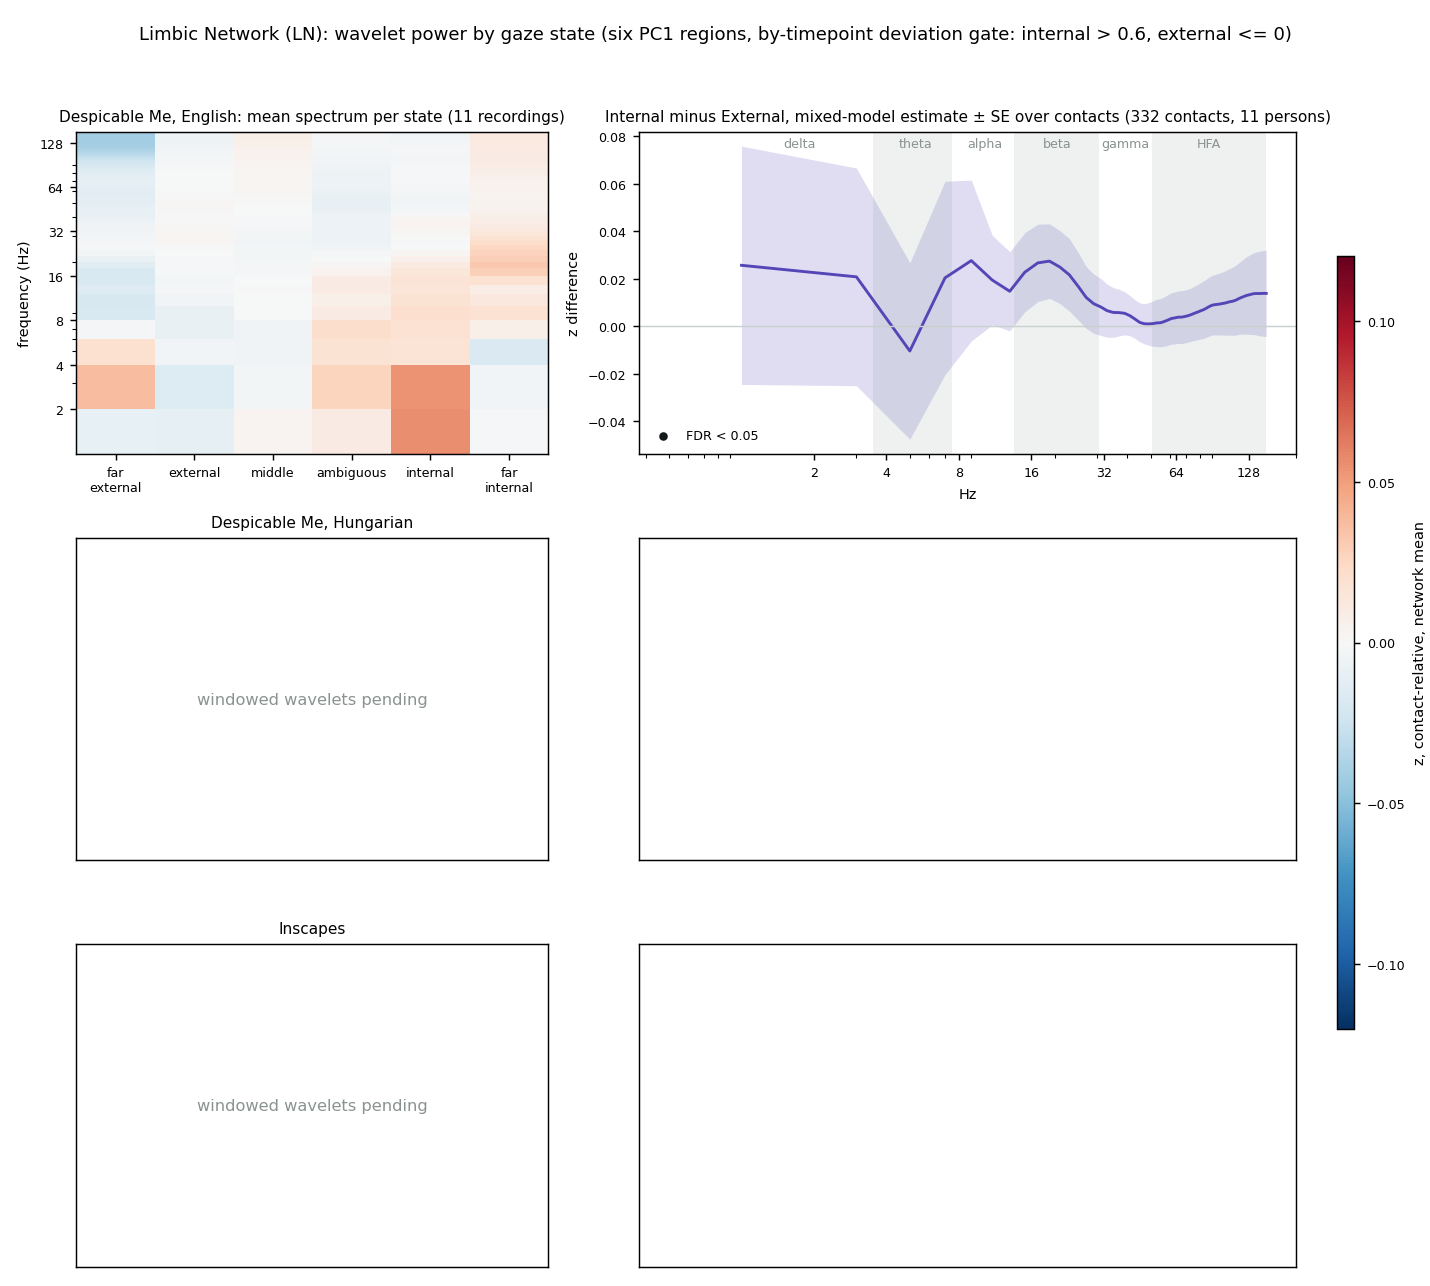
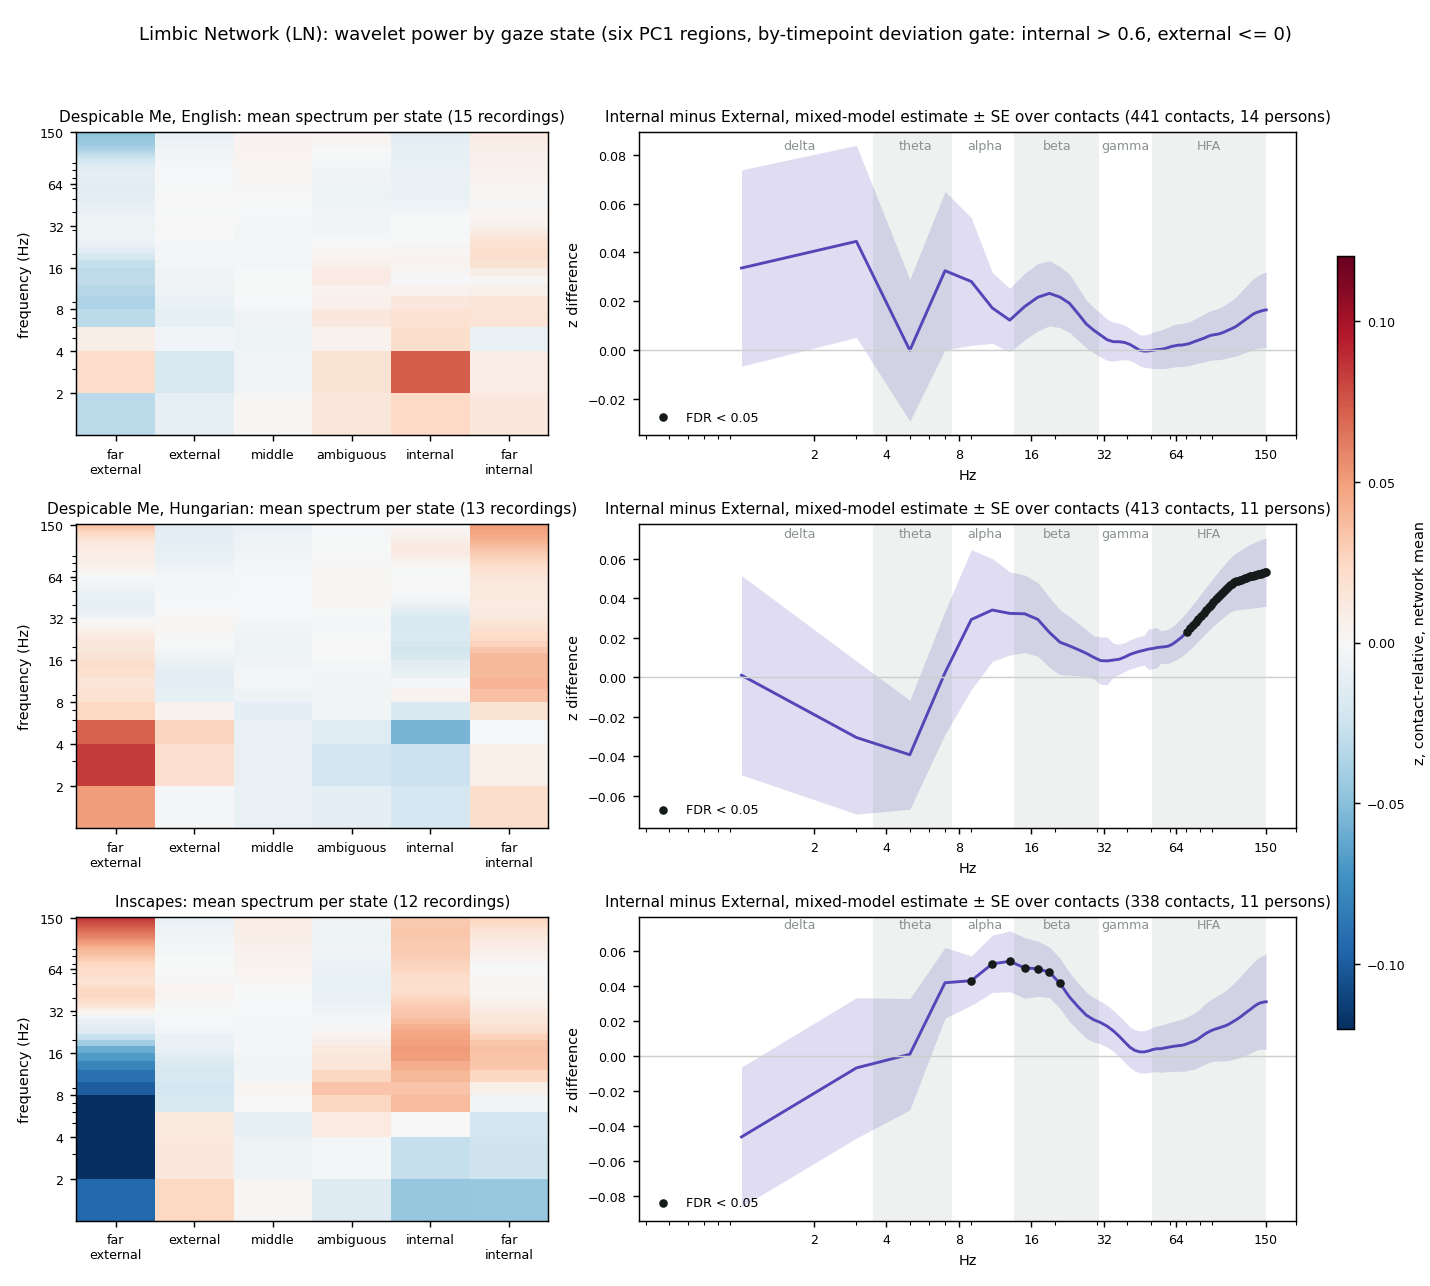
Spectra page: all three films on the 42-recording neural list, 150 Hz tick
Claude-Session: https://claude.ai/code/session_011o1cd7TCFfMfi4q8cm5qTc

diff --git a/reports/attn_explore_14Sep26_spectrograms.html b/reports/attn_explore_14Sep26_spectrograms.html
@@ -32,7 +32,7 @@ figcaption{font-family:var(--sans);font-size:13.5px;color:var(--ink-2);margin-to
   <h2 style="margin-top:0">State-averaged spectra and the Internal minus External contrast</h2>
   <p>Time is collapsed: for each network the left panel is a heatmap of the mean spectrum in each of the six gaze states, frequency on the y axis and state on the x axis from far external to far internal, and the right panel is the Internal minus External contrast at every frequency, where Internal pools the internal and far-internal regions and External pools the external and far-external regions. The summary figure below it shows the same contrast for all seven networks at once.</p>
   <p>States are the six PC1 regions, cut on within-viewer PC1 z at -1.5, -0.4, 0.4, 0.8 and 1.2, with the by-timepoint deviation gate at both ends: the two internal regions keep only windows whose deviation z across viewers at that scene is above 0.6, and the two external regions keep only windows at or below 0. Windows failing a gate are dropped. Each contact's spectrum is robust-z-scored against its own recording and centred on its own mean over all good windows, so the heatmap shows departure from the contact's average at each frequency, averaged over the network's contacts and then over recordings. The contrast is a mixed model per frequency on the per-contact Internal minus External difference with a person random intercept; dots mark frequencies significant after FDR over the 76 frequencies within network and film.</p>
-  <p class="note">A film is drawn only once at least five of its recordings have windowed wavelets. English has 12. Hungarian and Inscapes are being windowed and will appear when the job finishes. The colour range is ±0.12 z; values beyond it saturate.</p>
+  <p class="note">Recordings are the pipeline's neural inclusion list, the same 42 the power contrasts use: 16 English, 13 Hungarian, 13 Inscapes. The colour range is ±0.12 z; values beyond it saturate.</p>
 </div>
 <h2>All networks: Internal minus External by frequency</h2>
 <figure><img src="spectrograms/spectra_summary.png" alt="Internal minus External z by frequency for all networks"></figure>

diff --git a/analysis_scripts/attn_explore_14Sep26_spectra_states.py b/analysis_scripts/attn_explore_14Sep26_spectra_states.py
@@ -135,7 +135,7 @@ if __name__ == '__main__':
             ax = axes[i, 0]
             if (net, vid) in H:
                 fe = np.r_[freqs - 1, freqs[-1] + 1]; im = ax.pcolormesh(np.arange(len(REG) + 1), fe, H[(net, vid)].T, cmap='RdBu_r', norm=TwoSlopeNorm(vcenter=0, vmin=-VLIM, vmax=VLIM), shading='flat', rasterized=True)
-                ax.set_yscale('log'); ax.set_ylim(1, 152); ax.set_yticks([2, 4, 8, 16, 32, 64, 128]); ax.set_yticklabels(['2', '4', '8', '16', '32', '64', '128']); ax.set_xticks(np.arange(len(REG)) + 0.5); ax.set_xticklabels([r.replace(' ', '\n') for r in REG], fontsize=7.5)
+                ax.set_yscale('log'); ax.set_ylim(1, 152); ax.set_yticks([2, 4, 8, 16, 32, 64, 150]); ax.set_yticklabels(['2', '4', '8', '16', '32', '64', '150']); ax.set_xticks(np.arange(len(REG)) + 0.5); ax.set_xticklabels([r.replace(' ', '\n') for r in REG], fontsize=7.5)
                 ax.set_title(f'{VN[vid]}: mean spectrum per state ({len(net_state[(net, vid)])} recordings)', fontsize=8.5); ax.set_ylabel('frequency (Hz)', fontsize=8)
             else:
                 ax.text(0.5, 0.5, 'windowed wavelets pending', ha='center', va='center', fontsize=9, color='#8a9391', transform=ax.transAxes); ax.set_title(VN[vid], fontsize=8.5); ax.set_xticks([]); ax.set_yticks([])
@@ -144,7 +144,7 @@ if __name__ == '__main__':
             if len(rr):
                 ax.fill_between(rr.freq, rr.est - rr.se, rr.est + rr.se, color='#5546b8', alpha=0.18, lw=0); ax.plot(rr.freq, rr.est, color='#5546b8', lw=1.6)
                 sg = rr[rr.sig]; ax.scatter(sg.freq, sg.est, s=14, color='#151b1a', zorder=3, label='FDR < 0.05')
-                ax.axhline(0, color='#c9d0ce', lw=0.8); ax.set_xscale('log'); ax.set_xticks([2, 4, 8, 16, 32, 64, 128]); ax.set_xticklabels(['2', '4', '8', '16', '32', '64', '128'])
+                ax.axhline(0, color='#c9d0ce', lw=0.8); ax.set_xscale('log'); ax.set_xticks([2, 4, 8, 16, 32, 64, 150]); ax.set_xticklabels(['2', '4', '8', '16', '32', '64', '150'])
                 for b, lo, hi in BANDS:
                     ax.axvspan(lo - 0.5, hi + 0.5, color='#eef1f0' if BANDS.index((b, lo, hi)) % 2 else 'white', zorder=0, lw=0); ax.text(np.sqrt(max(lo, 1) * hi), ax.get_ylim()[1] * 0.92 if ax.get_ylim()[1] > 0 else 0, b, ha='center', fontsize=7, color='#8a9391')
                 ax.set_title(f'Internal minus External, mixed-model estimate ± SE over contacts ({rr.n_contacts.iloc[0]} contacts, {rr.n_persons.iloc[0]} persons)', fontsize=8.5)
@@ -163,7 +163,7 @@ if __name__ == '__main__':
             M = rr.pivot(index='network', columns='freq', values='z').reindex(Y7); Sg = rr.pivot(index='network', columns='freq', values='sig').reindex(Y7)
             im = ax.pcolormesh(np.r_[freqs - 1, freqs[-1] + 1], np.arange(len(Y7) + 1), M.values, cmap='RdBu_r', norm=TwoSlopeNorm(vcenter=0, vmin=-5, vmax=5), shading='flat', rasterized=True)
             ys, xs = np.where(Sg.values == True); ax.scatter(freqs[xs], ys + 0.5, s=5, color='#151b1a')
-            ax.set_xscale('log'); ax.set_xticks([2, 4, 8, 16, 32, 64, 128]); ax.set_xticklabels(['2', '4', '8', '16', '32', '64', '128']); ax.set_yticks(np.arange(len(Y7)) + 0.5); ax.set_yticklabels([n.split(' (')[0] for n in Y7], fontsize=7)
+            ax.set_xscale('log'); ax.set_xticks([2, 4, 8, 16, 32, 64, 150]); ax.set_xticklabels(['2', '4', '8', '16', '32', '64', '150']); ax.set_yticks(np.arange(len(Y7)) + 0.5); ax.set_yticklabels([n.split(' (')[0] for n in Y7], fontsize=7)
             ax.set_title(f'{VN[vid]}: Internal minus External, z per frequency (dots FDR < 0.05)', fontsize=8.5); ax.set_xlabel('Hz', fontsize=8)
         else:
             ax.text(0.5, 0.5, 'pending', ha='center', va='center', color='#8a9391', transform=ax.transAxes); ax.set_title(VN[vid], fontsize=8.5); ax.set_xticks([]); ax.set_yticks([])
